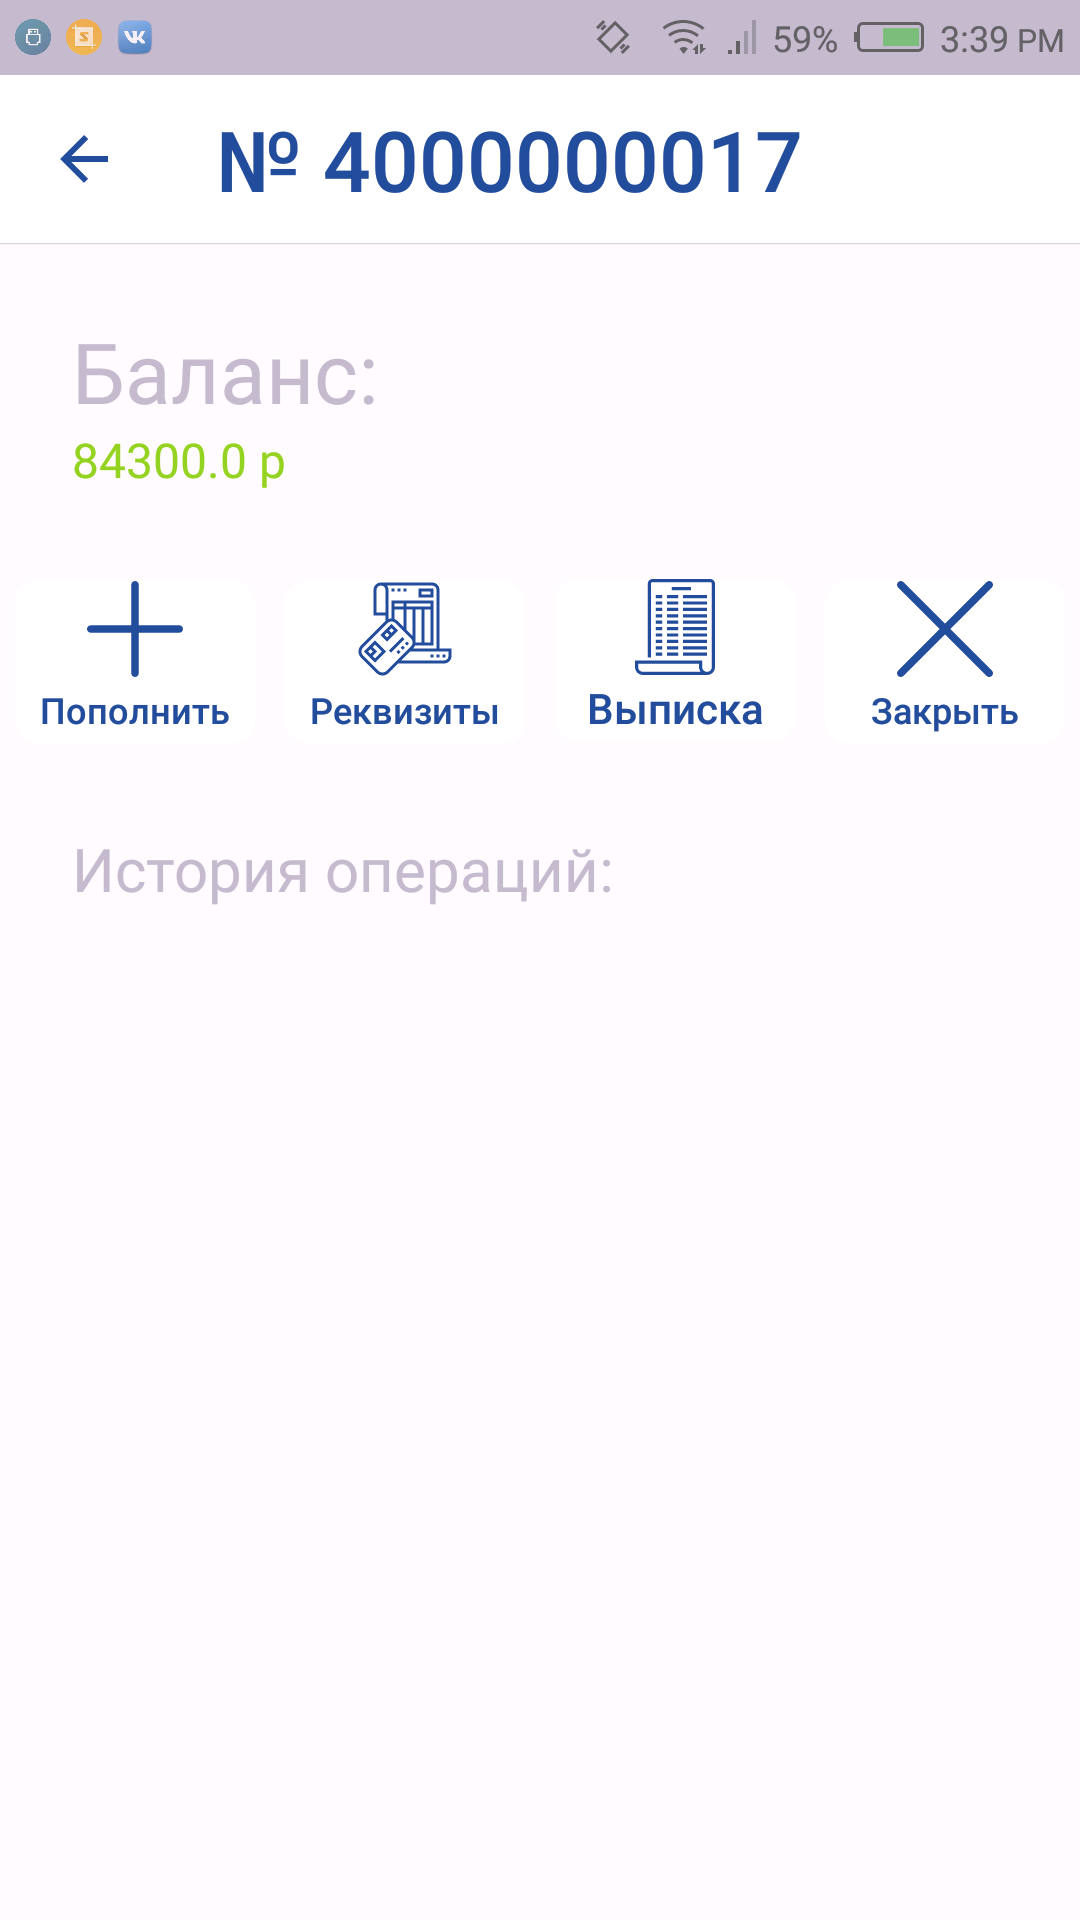
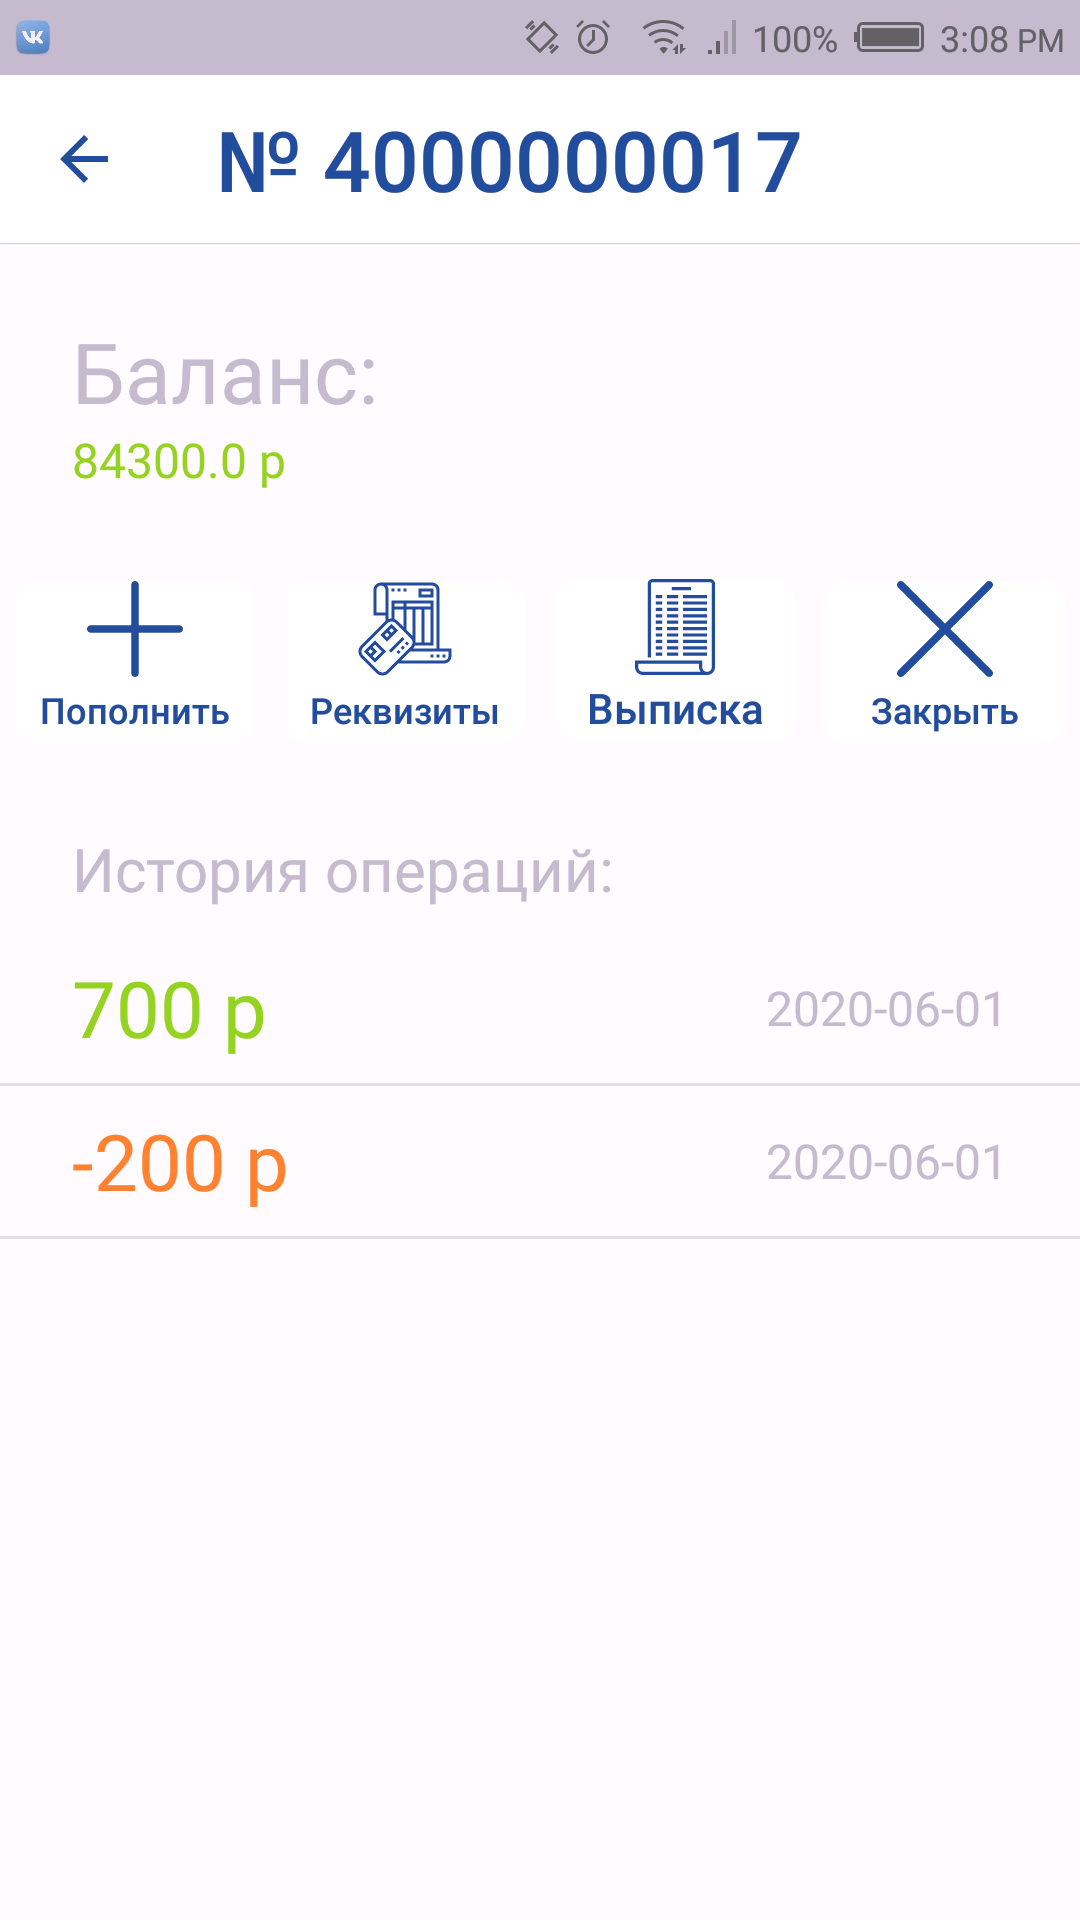
app add: transactionList()

diff --git a/Android/ModulBank/app/src/main/java/com/alex/modulbank/screens/main/frags/account/AccountActionsViewModel.kt b/Android/ModulBank/app/src/main/java/com/alex/modulbank/screens/main/frags/account/AccountActionsViewModel.kt
@@ -6,18 +6,25 @@ import androidx.lifecycle.ViewModel
 import com.alex.modulbank.DTO.Account
 import com.alex.modulbank.DTO.BankTransaction
 import com.alex.modulbank.DTO.MessageError
+import com.alex.modulbank.DTO.TransactionOperation
 import com.alex.modulbank.api.IBankOperationsService
 import com.alex.modulbank.api.IUserService
 import com.google.gson.GsonBuilder
 import okhttp3.ResponseBody
+import org.json.JSONArray
 import retrofit2.Call
 import retrofit2.Callback
 import retrofit2.Response
 import java.math.BigDecimal
+import java.text.SimpleDateFormat
+import java.util.*
+import kotlin.collections.ArrayList
 
 class AccountActionsViewModel (private val bankService: IBankOperationsService, private val userService: IUserService): ViewModel() {
 
     val account = MutableLiveData<Account>()
+    val loadingProcess = MutableLiveData<Boolean>()
+    val transactionsList = MutableLiveData<ArrayList<TransactionOperation>>()
 
     private var lastOperationAmount: Double = 0.0
     private lateinit var view: AccountActionsFragment
@@ -28,6 +35,7 @@ class AccountActionsViewModel (private val bankService: IBankOperationsService, 
     }
 
     fun requestFailed(messageError: MessageError){
+        loadingProcess.postValue(false)
         view.showError(messageError.errorMessage)
     }
 
@@ -35,6 +43,7 @@ class AccountActionsViewModel (private val bankService: IBankOperationsService, 
         if (txtAmount.isEmpty()) return
         if (account.value == null) return
 
+        loadingProcess.postValue(true)
         lastOperationAmount = txtAmount.toDouble()
 
         bankService.makeDepo(
@@ -49,6 +58,10 @@ class AccountActionsViewModel (private val bankService: IBankOperationsService, 
                 if (response.isSuccessful) {
                     if (account.value != null)
                         account.value = account.value?.also{ it-> it.amount += lastOperationAmount}
+                    loadingProcess.postValue(false)
+                    addTransactionToList(
+                        TransactionOperation(-1, -1, BigDecimal(lastOperationAmount), Date())
+                    )
                 } else {
                     if (response.body() != null)
                         requestFailed(gson.fromJson(response.body()!!.string(), MessageError::class.java))
@@ -63,6 +76,8 @@ class AccountActionsViewModel (private val bankService: IBankOperationsService, 
     }
 
     fun closeAccount(){
+        loadingProcess.postValue(true)
+
         userService.closeAccount(account.value!!.number)
             .enqueue(object : Callback<ResponseBody> {
 
@@ -70,6 +85,7 @@ class AccountActionsViewModel (private val bankService: IBankOperationsService, 
                 val gson = GsonBuilder().create()
 
                 if (response.isSuccessful) {
+                    loadingProcess.postValue(false)
                     view.closeAccountSuccess()
                 } else {
                     if (response.body() != null)
@@ -82,5 +98,55 @@ class AccountActionsViewModel (private val bankService: IBankOperationsService, 
                 requestFailed(MessageError( "Нет подключения к серверу" ))
             }
         })
+    }
+
+    fun transactionsListRequest(){
+        loadingProcess.postValue(true)
+
+        val call: Call<ResponseBody> = bankService.transactionsList(account.value!!.number)
+        call.enqueue(object : Callback<ResponseBody> {
+
+            override fun onResponse(call: Call<ResponseBody>, response: Response<ResponseBody>) {
+                val json = response.body()!!.string()
+                val gson = GsonBuilder().create()
+
+                if (response.isSuccessful) {
+                    loadingProcess.postValue(false)
+                    transactionsList.value = toList(json)
+                } else {
+                    if (response.body() != null)
+                        requestFailed(gson.fromJson(json, MessageError::class.java))
+                    else requestFailed(MessageError("Ошибка!"))
+                }
+            }
+            override  fun onFailure(call: Call<ResponseBody>, t: Throwable) {
+                Log.e("Error ", t.message!!)
+                requestFailed(MessageError( "Нет подключения к серверу" ))
+            }
+        })
+    }
+
+    fun toList(json: String): ArrayList<TransactionOperation> {
+        Log.e("TAG", "json array : "+json)
+
+        val sdf = SimpleDateFormat("yyyy-MM-dd'T'HH:mm:ss")
+        val array = JSONArray(json)
+        val transactions = ArrayList<TransactionOperation>(array.length())
+        for (i in 0 until array.length()) {
+            val item = array.getJSONObject(i)
+            transactions.add(
+                TransactionOperation(
+                    item.getInt("id"),
+                    item.getLong("number"),
+                    BigDecimal(item.getLong("amount")),
+                    sdf.parse(item.getString("oper_date"))
+                )
+            )
+        }
+        return transactions
+    }
+
+    private fun addTransactionToList(tr: TransactionOperation){
+
     }
 }

diff --git a/Android/ModulBank/app/src/main/java/com/alex/modulbank/screens/main/frags/home/HomeFragment.kt b/Android/ModulBank/app/src/main/java/com/alex/modulbank/screens/main/frags/home/HomeFragment.kt
@@ -37,14 +37,14 @@ class HomeFragment : Fragment(){
         // Дата
         //
         val sdf = SimpleDateFormat.getDateInstance(DateFormat.LONG)
-        val txtTodayDate = root!!.findViewById<TextView>(R.id.txt_date)
+        val txtTodayDate = root.findViewById<TextView>(R.id.txt_date)
         txtTodayDate.text = sdf.format(Date())
 
 
         // Список Счетов
         //
-        val accountsListView = root!!.findViewById<ListView>(R.id.lv_accounts)
-        val adapter = AdapterAccountList(root!!.context, ArrayList(0))
+        val accountsListView = root.findViewById<ListView>(R.id.lv_accounts)
+        val adapter = AdapterAccountList(root.context, ArrayList(0))
         homeViewModel.accounts.observe(this, Observer {
             adapter.clear()
             adapter.addAll(it)
@@ -52,7 +52,7 @@ class HomeFragment : Fragment(){
         accountsListView.adapter = adapter
 
 
-        //переход на фрагмет с операциями над счетом
+        // Переход на фрагмет с операциями над счетом
         //
         accountsListView.setOnItemClickListener{parent, view, position, id ->
             val item = adapter.getItem(position)
@@ -64,38 +64,37 @@ class HomeFragment : Fragment(){
         }
 
 
-        //Добавить счет
+        // Добавить счет
         //
-        val btnNewAccount = root!!.findViewById<Button>(R.id.btn_new_account)
+        val btnNewAccount = root.findViewById<Button>(R.id.btn_new_account)
         btnNewAccount.setOnClickListener{
             homeViewModel.newAccount()
         }
 
 
-        //ProgressBar init
+        // ProgressBar init
         //
-        val pBar = root!!.findViewById<ProgressBar>(R.id.progress_bar)
+        val pBar = root.findViewById<ProgressBar>(R.id.progress_bar)
         homeViewModel.loadingBar.observe(this, Observer {
-            if (it) pBar.visibility = View.VISIBLE
-            else pBar.visibility = View.INVISIBLE
+            pBar.visibility = if (it) View.VISIBLE else View.GONE
         })
 
 
-        //Обновить\загрузить список счетов
+        // Обновить\загрузить список счетов
         //
         homeViewModel.init()
         homeViewModel.accountsListRequest()
 
 
-        //открыть настройки
+        // Открыть настройки
         //
-        val btnSettings = root!!.findViewById<ImageButton>(R.id.img_settings)
+        val btnSettings = root.findViewById<ImageButton>(R.id.img_settings)
         btnSettings.setOnClickListener{
-            startActivity(Intent(root!!.context, UserSettingsActivity::class.java))
+            startActivity(Intent(root.context, UserSettingsActivity::class.java))
         }
 
 
-        // показ ожибки
+        // Показ ошибки
         //
         homeViewModel.errorMessage.observe(this, Observer {
             Toast.makeText(activity, it, Toast.LENGTH_SHORT).show()

diff --git a/Android/ModulBank/app/src/main/java/com/alex/modulbank/screens/main/frags/account/AccountActionsFragment.kt b/Android/ModulBank/app/src/main/java/com/alex/modulbank/screens/main/frags/account/AccountActionsFragment.kt
@@ -8,16 +8,14 @@ import android.text.TextWatcher
 import android.view.LayoutInflater
 import android.view.View
 import android.view.ViewGroup
-import android.widget.Button
-import android.widget.EditText
-import android.widget.TextView
-import android.widget.Toast
+import android.widget.*
 import androidx.appcompat.app.AlertDialog
 import androidx.fragment.app.Fragment
 import androidx.lifecycle.Observer
 import com.alex.modulbank.DTO.Account
 import com.alex.modulbank.R
 import com.alex.modulbank.di.BaseApplication
+import com.alex.modulbank.models.AdapterTransactionsList
 import com.alex.modulbank.screens.main.MainActivity
 import javax.inject.Inject
 
@@ -52,6 +50,25 @@ class AccountActionsFragment : Fragment(){
 
         val btnCloseAccount = root.findViewById<Button>(R.id.btn_close_account)
         btnCloseAccount.setOnClickListener{ viewModel.closeAccount() }
+
+        // ProgressBar init
+        val pBar = root.findViewById<ProgressBar>(R.id.progress_bar)
+        viewModel.loadingProcess.observe(this, Observer {
+            pBar.visibility = if (it) View.VISIBLE else View.GONE
+        })
+
+
+        // Список транзакций
+        //
+        val lvTransactions = root.findViewById<ListView>(R.id.lv_transactions)
+        val adapter = AdapterTransactionsList(root.context, ArrayList(0))
+        viewModel.transactionsList.observe(this, Observer {
+            adapter.clear()
+            adapter.addAll(it)
+        })
+        lvTransactions.adapter = adapter
+
+        viewModel.transactionsListRequest()
 
         return root
     }

diff --git a/Android/ModulBank/app/src/main/java/com/alex/modulbank/models/AdapterTransactionsList.kt b/Android/ModulBank/app/src/main/java/com/alex/modulbank/models/AdapterTransactionsList.kt
@@ -1,0 +1,35 @@
+package com.alex.modulbank.models
+
+import android.content.Context
+import android.view.LayoutInflater
+import android.view.View
+import android.view.ViewGroup
+import android.widget.ArrayAdapter
+import android.widget.TextView
+import com.alex.modulbank.DTO.TransactionOperation
+import com.alex.modulbank.R
+import java.math.BigDecimal
+import java.text.SimpleDateFormat
+
+class AdapterTransactionsList constructor(val ctx: Context, val transactions: List<TransactionOperation>): ArrayAdapter<TransactionOperation>(ctx, R.layout.li_transaction, transactions) {
+
+    private val inflater: LayoutInflater = ctx.getSystemService(Context.LAYOUT_INFLATER_SERVICE) as LayoutInflater
+    private val sdf = SimpleDateFormat("yyyy-MM-dd")
+
+    override fun getView(position: Int, convertView: View?, parent: ViewGroup): View {
+
+        val view = convertView ?: inflater.inflate(R.layout.li_transaction, parent, false)
+        val transaction: TransactionOperation = transactions[position]
+
+        val txtAmount = view.findViewById<TextView>(R.id.txt_amount)
+        txtAmount.text = transaction.amount.toString().plus(" p")
+        txtAmount.setTextColor(
+            if (transaction.amount < BigDecimal.ZERO) ctx.resources.getColor(R.color.colorError)
+            else ctx.resources.getColor(R.color.colorAccent)
+        )
+        view.findViewById<TextView>(R.id.txt_date).text = sdf.format(transaction.operDate)
+
+        return view
+    }
+
+}

diff --git a/Android/ModulBank/app/src/main/java/com/alex/modulbank/api/IBankOperationsService.kt b/Android/ModulBank/app/src/main/java/com/alex/modulbank/api/IBankOperationsService.kt
@@ -4,7 +4,9 @@ import com.alex.modulbank.DTO.BankTransaction
 import okhttp3.ResponseBody
 import retrofit2.Call
 import retrofit2.http.Body
+import retrofit2.http.GET
 import retrofit2.http.POST
+import retrofit2.http.Query
 
 interface IBankOperationsService {
 
@@ -13,4 +15,8 @@ interface IBankOperationsService {
 
     @POST("api/makedepo")
     fun makeDepo(@Body transaction: BankTransaction): Call<ResponseBody>
+
+// number:   long       | номер счета
+    @GET("api/transactions")
+    fun transactionsList(@Query("number") number: Long): Call<ResponseBody>
 }

diff --git a/Android/ModulBank/app/src/main/java/com/alex/modulbank/models/PrefsManager.kt b/Android/ModulBank/app/src/main/java/com/alex/modulbank/models/PrefsManager.kt
@@ -19,7 +19,7 @@ class PrefsManager(private val context:Context) {
 
         if (sp.getString("token", "") == "") return false
 //"2020-05-07T02:04:41Z"
-        val sdf = SimpleDateFormat("yyyy-MM-dd'T'HH:mm:ss'Z'");
+        val sdf = SimpleDateFormat("yyyy-MM-dd'T'HH:mm:ss'Z'")
         val dateExp: Date = sdf.parse(sp.getString("expiration", ""))
         val dateToday = Date()
 

diff --git a/Android/ModulBank/app/src/main/java/com/alex/modulbank/screens/main/frags/home/HomeModel.kt b/Android/ModulBank/app/src/main/java/com/alex/modulbank/screens/main/frags/home/HomeModel.kt
@@ -33,8 +33,8 @@ class HomeModel (var userService: IUserService){
     fun getAccounts(){
 
         val call: Call<ResponseBody> = userService.accounts()
-
         call.enqueue(object : Callback<ResponseBody> {
+
             override fun onResponse(call: Call<ResponseBody>, response: Response<ResponseBody>) {
                 val gson = GsonBuilder().create()
 

diff --git a/Android/ModulBank/app/src/main/java/com/alex/modulbank/di/modules/AppModule.kt b/Android/ModulBank/app/src/main/java/com/alex/modulbank/di/modules/AppModule.kt
@@ -17,6 +17,7 @@ import javax.inject.Singleton
 class AppModule {
 
     private val API_URL = "https://198.168.0.108/"
+    //private val API_URL = "https://usatu-pro-dating.000webhostapp.com/"
 
     @Provides
     @Singleton

diff --git a/Android/ModulBank/app/src/main/java/com/alex/modulbank/DTO/TransactionOperation.kt b/Android/ModulBank/app/src/main/java/com/alex/modulbank/DTO/TransactionOperation.kt
@@ -1,0 +1,6 @@
+package com.alex.modulbank.DTO
+
+import java.math.BigDecimal
+import java.util.*
+
+data class TransactionOperation(val id:Int, val number: Long, val amount:BigDecimal, val operDate: Date)
